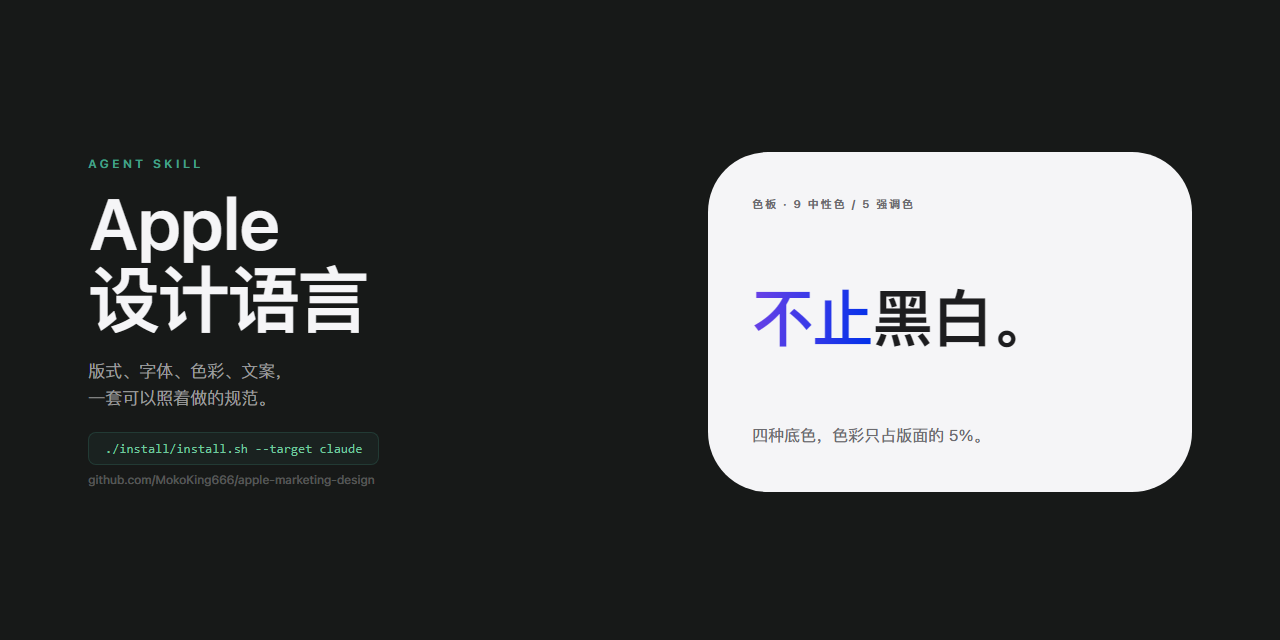
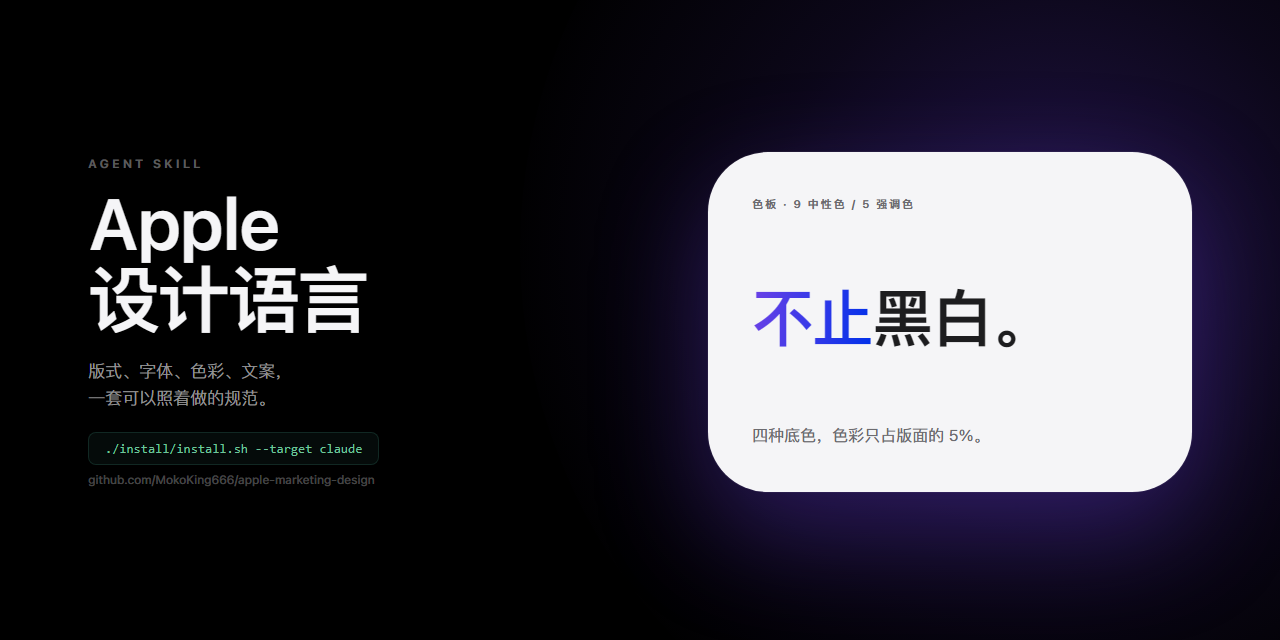
design: 色彩收敛为单一紫色系，纯黑底加柔和光晕，白卡浮起

diff --git a/assets/social-preview.html b/assets/social-preview.html
@@ -15,7 +15,7 @@
   body {
     font-family: "SF Pro Display", "SF Pro Text", -apple-system,
                  "PingFang SC", "Noto Sans SC", "Microsoft YaHei", sans-serif;
-    background: #171918;
+    background: #000000;
     color: #f5f5f7;
     -webkit-font-smoothing: antialiased;
   }
@@ -24,6 +24,19 @@
     position: relative;
     width: 1280px; height: 640px;
     overflow: hidden;
+  }
+
+  /* 双色光晕：紫在右上、蓝在右下，同一色相家族，不引入第二种强调色 */
+  .glow-a {
+    position: absolute;
+    left: 520px; top: -300px;
+    width: 1060px; height: 1100px;
+    border-radius: 50%;
+    background: radial-gradient(circle,
+      rgba(108,65,230,.30) 0%,
+      rgba(108,65,230,.11) 38%,
+      rgba(108,65,230,0) 72%);
+    pointer-events: none;
   }
 
   /* 安全区：左右 88（6.9%），上下 152 —— 3:1 裁切后仍留 41px 呼吸 */
@@ -48,7 +61,7 @@
     font-size: 12px;
     font-weight: 600;
     letter-spacing: 0.28em;
-    color: #42a288;
+    color: rgba(245,245,247,.38);
     margin-bottom: 16px;
   }
 
@@ -98,6 +111,7 @@
     border-radius: 60px;          /* 短边 340 × 18% ≈ 61 */
     background: #f5f5f7;
     padding: 44px;
+    box-shadow: 0 40px 110px rgba(108,65,230,.34), 0 0 0 1px rgba(255,255,255,.06);
     display: grid;
     grid-template-rows: auto 1fr auto;
     overflow: hidden;
@@ -138,6 +152,7 @@
 </head>
 <body>
 <div class="card">
+  <div class="glow-a"></div>
   <div class="safe">
 
     <div class="left">
